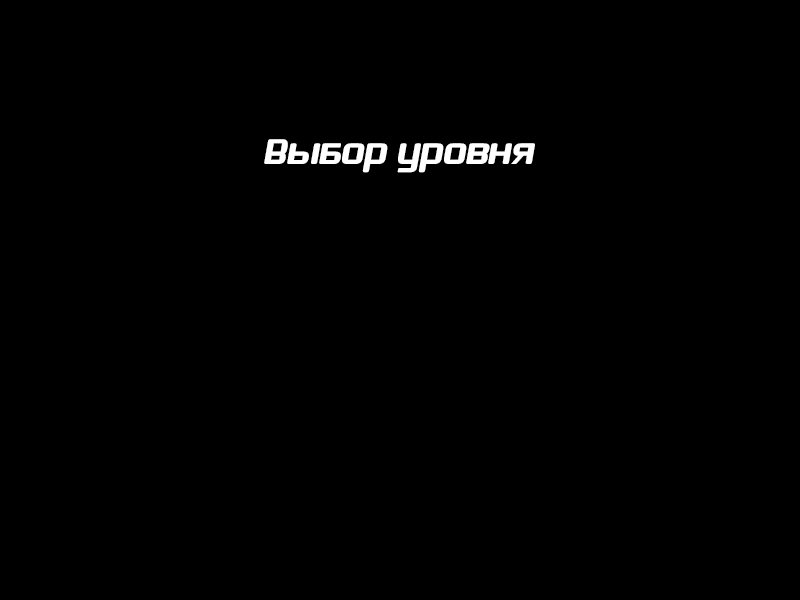
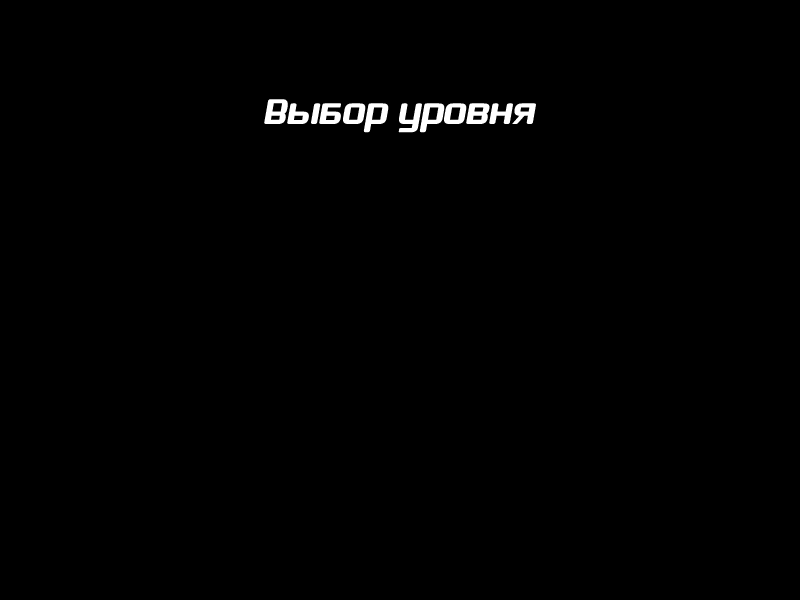
Added difficulties

Changed region(s): [[0.3125, 0.15, 0.6875, 0.3]]

diff --git a/src/GameView.java b/src/GameView.java
@@ -1,12 +1,9 @@
 import com.wizylab.duck2d.*;
-import com.wizylab.duck2d.Window;
 
-import javax.imageio.ImageIO;
 import java.awt.*;
 import java.awt.event.KeyEvent;
 import java.io.File;
 import java.io.FileNotFoundException;
-import java.io.IOException;
 import java.util.Scanner;
 
 public class GameView implements View {
@@ -24,7 +21,12 @@ public class GameView implements View {
         int level = Environment.get("level");
         counter = 0;
         if (level == 2) scanFile();
-        if (level == 1) resetSettings();
+        if (level == 1) defaultSettings();
+        if (level == 3) easySettings();
+        if (level == 4) hardSettings();
+        pause = false;
+        circles = new Circle[numberOfBalls];
+        for (int i = 0; i < circles.length; i++) circles[i] = new Circle(radiusMin, radiusMax, speedMin, speedMax);
     }
 
     @Override
@@ -51,8 +53,7 @@ public class GameView implements View {
         if (!pause) {
             for (Circle circle : circles) {
                 circle.move(t);
-                if (circle.y >= 610)
-                    circle.reset(radiusMin, radiusMax, speedMin, speedMax);
+                if (circle.y >= 610) circle.reset(radiusMin, radiusMax, speedMin, speedMax);
                 if (click && circle.contains(Mouse.x(), Mouse.y())) {
                     counter++;
                     circle.reset(radiusMin, radiusMax, speedMin, speedMax);
@@ -91,16 +92,13 @@ public class GameView implements View {
             radiusMin = sc.nextInt();
             speedMax = sc.nextDouble();
             speedMin = sc.nextDouble();
-            circles = new Circle[numberOfBalls];
-            for (int i = 0; i < circles.length; i++)
-                circles[i] = new Circle(radiusMin, radiusMax, speedMin, speedMax);
         } catch (FileNotFoundException e) {
             e.printStackTrace();
             Game.show(MenuView.class);
         }
     }
 
-    private void resetSettings() {
+    private void defaultSettings() {
         remainingTime = 60000;
         finalResult = 40;
         radiusMin = 5;
@@ -108,9 +106,25 @@ public class GameView implements View {
         speedMin = 0.1;
         speedMax = 0.3;
         numberOfBalls = 150;
-        pause = false;
-        circles = new Circle[numberOfBalls];
-        for (int i = 0; i < circles.length; i++) circles[i] = new Circle(radiusMin, radiusMax, speedMin, speedMax);
     }
 
+    private void easySettings() {
+        remainingTime = 60000;
+        finalResult = 20;
+        radiusMin = 10;
+        radiusMax = 20;
+        speedMin = 0.1;
+        speedMax = 0.3;
+        numberOfBalls = 100;
+    }
+
+    private void hardSettings() {
+        remainingTime = 60000;
+        finalResult = 100;
+        radiusMin = 3;
+        radiusMax = 10;
+        speedMin = 0.1;
+        speedMax = 0.5;
+        numberOfBalls = 200;
+    }
 }

diff --git a/src/SelectLevelView.java b/src/SelectLevelView.java
@@ -9,15 +9,24 @@ public class SelectLevelView implements View {
     public void onTimer(long l) {
         if (Keyboard.onKey(KeyEvent.VK_ESCAPE)) Game.show(MenuView.class);
         boolean click = Mouse.onClick(MouseButton.LEFT);
-        if (click && new Rectangle(188, 207, 425, 75).contains(Mouse.x(), Mouse.y())) {
-            Environment.put("level", 1);
+        if (click && new Rectangle(235, 271, 328, 58).contains(Mouse.x(), Mouse.y())) {
+            Environment.put("level", 1); //обычный уровень
             Game.show(GameView.class);
         }
 
-        if (click && new Rectangle(188, 313, 425, 75).contains(Mouse.x(), Mouse.y())) {
-            Environment.put("level", 2);
+        if (click && new Rectangle(234, 440, 329, 58).contains(Mouse.x(), Mouse.y())) {
+            Environment.put("level", 2); //Настраиваемый
             Game.show(GameView.class);
         }
+        if (click && new Rectangle(234, 354, 329, 58).contains(Mouse.x(), Mouse.y())) {
+            Environment.put("level", 3); //легкий
+            Game.show(GameView.class);
+        }
+        if (click && new Rectangle(234, 188, 329, 58).contains(Mouse.x(), Mouse.y())) {
+            Environment.put("level", 4); //сложный
+            Game.show(GameView.class);
+        }
+        //Кнопка назад
         if (click && new Rectangle(550, 533, 250, 44).contains(Mouse.x(), Mouse.y())) Game.show(MenuView.class);
     }
 
@@ -25,7 +34,9 @@ public class SelectLevelView implements View {
     public void onDraw(Graph g) {
         g.putImage("select-level/bg", 0, 0);
         g.putImage("select-level/back", 550, 533);
-        g.putImage("select-level/def", 188, 207);
-        g.putImage("select-level/manual", 188, 313);
+        g.putImage("select-level/def", 235, 271);
+        g.putImage("select-level/manual", 234, 440);
+        g.putImage("select-level/hard", 234, 188);
+        g.putImage("select-level/light", 234, 354);
     }
 }
